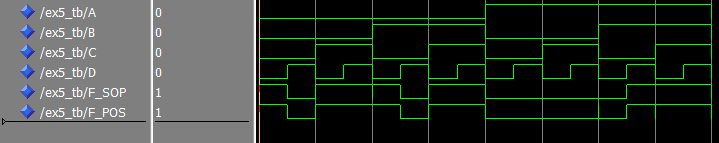
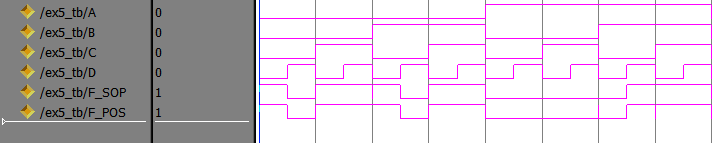
Finished lab5

diff --git a/lab5.tex b/lab5.tex
@@ -29,6 +29,7 @@
 \usepackage{lmodern}
 \usepackage{siunitx}
 \usepackage{subcaption}
+
 \usepackage{kmap}
 \usepackage[T1]{fontenc}
 
@@ -56,7 +57,7 @@
 \maketitle
 
 \section*{Abstract}
-In this laboratory exercise, an arbitrary function was implemented using a simplified Karnaugh map. A product of sums and a sums of product expression was generated. Both circuits were designed in Quartus II and then simulated in Modelsim. A forces file was initially used to control input pins, however, the test bench provided on MyCourses proved to be a more effient way to test the circuit. The cost of each circuit was evaluated. The cheap circuit was implemented a breadboard. The function was a four-input, one-output function described using min-term notation.
+In this laboratory exercise, an arbitrary function was implemented using a simplified Karnaugh map. A product of sums and a sums of product expression was generated. Both circuits were designed in Quartus II and then simulated in Modelsim. A forces file was initially used to control input pins, however, the test bench provided on MyCourses proved to be a more effient way to test the circuit. The cost of each circuit was evaluated. The cheap circuit was implemented a breadboard. The function was a four-input, one-output function described using min-term notation. The exercise was successful when implementing the circuit on a breadboard as well in the Modelsim simulation.
 
 \section*{Design Methodology}
 
@@ -124,7 +125,7 @@ F_{SOP} = \widebar{A}\widebar{D} + ABD + \widebar{A}C + BC
 F_{POS} = (\widebar{A} + B)(\widebar{A} + C + D)(A + C + \widebar{D})
 \end{equation}
 
-The POS and SOP expressions above can be implemented using a circuit with AOI logic.
+The SOP (Eq. \ref{eq:sop}) and POS (Eq. \ref{eq:pos}) expressions above can be implemented using a circuit with AOI logic.
 
 \begin{figure}[htbp]
 	\centering
@@ -165,7 +166,7 @@ The POS and SOP expressions above can be implemented using a circuit with AOI lo
 	
 	\draw (SOP_TOP) ++(3,-0.5)     node (sop_c1) [or port, scale=0.7]{};
 	\draw (SOP_TOP) ++(4.75,-2.25) node (sop_c2) [or port, scale=0.7]{};
-	\draw (SOP_TOP) ++(1.5,-3.75)  node (sop_c3) [or port, scale=0.7]{};
+	\draw (SOP_TOP) ++(2,-3.75)  node (sop_c3) [or port, scale=0.7]{};
 	
 	\draw (!A) |- node[circ,midway]{} (sop_t1.in 1)
 		  (!D) |- node[circ,midway]{} (sop_t1.in 2)
@@ -193,23 +194,23 @@ The POS and SOP expressions above can be implemented using a circuit with AOI lo
 		  (sop_t4.out) -- ++(0.25,0) |- (sop_c3.in 2);
 	
 	\draw (sop_c1.out) -- ++(0.25,0) |- (sop_c2.in 1)
-		  (sop_c3.out) -- ++(1.75,0)  |- (sop_c2.in 2);
+		  (sop_c3.out) -- ++(1.25,0)  |- (sop_c2.in 2);
 	
 	\draw (sop_c2.out) to[short, l=$F_{SOP}$, -o] ++(1.75,0);
 	
 	
 	\coordinate (POS_TOP) at (10,-1);
 	
-	\draw (POS_TOP)              node (pos_t1) [or port, scale=0.7]{};
+	\draw (POS_TOP)            node (pos_t1)   [or port, scale=0.7]{};
 	
-	\draw (POS_TOP) ++(0,-1.5)   node (pos_t2_1) [or port, scale=0.7]{};
-	\draw (POS_TOP) ++(1.5,-2)   node (pos_t2_2) [or port, scale=0.7]{};
+	\draw (POS_TOP) ++(0,-1.5) node (pos_t2_1) [or port, scale=0.7]{};
+	\draw (POS_TOP) ++(2,-2)   node (pos_t2_2) [or port, scale=0.7]{};
 	
-	\draw (POS_TOP) ++(0,-3)     node (pos_t3_1) [or port, scale=0.7]{};
-	\draw (POS_TOP) ++(1.5,-3.5) node (pos_t3_2) [or port, scale=0.7]{};
+	\draw (POS_TOP) ++(0,-3)   node (pos_t3_1) [or port, scale=0.7]{};
+	\draw (POS_TOP) ++(2,-3.5) node (pos_t3_2) [or port, scale=0.7]{};
 	
 	
-	\draw (POS_TOP) ++(3,-2.75)     node (pos_c1) [and port, scale=0.7]{};
+	\draw (POS_TOP) ++(3.5,-2.75)   node (pos_c1) [and port, scale=0.7]{};
 	\draw (POS_TOP) ++(4.5,-1.4)    node (pos_c2) [and port, scale=0.7]{};
 	
 	\draw (!A) |- node[circ,midway]{} (pos_t1.in 1)
@@ -235,32 +236,131 @@ The POS and SOP expressions above can be implemented using a circuit with AOI lo
 		  ;
 	
 	\draw (pos_t1.out) -- ++(3.35,0) |- (pos_c2.in 1)
-		  (pos_c1.out) -- ++(0.4,0)  |- (pos_c2.in 2)
+		  (pos_c1.out) -- ++(0.1,0)  |- (pos_c2.in 2)
 		  ;
 	
 	\draw (pos_c2.out) to[short, l=$F_{POS}$, -o] ++(2,0);
+	
+	\draw (anot.in) ++(-0.15,0) node[label={[font=\footnotesize]above:\texttt{1}}] {}
+		  (anot.out) node[label={[font=\footnotesize]above:\texttt{2}}] {}
+		  
+		  (dnot.in) ++(-0.15,0) node[label={[font=\footnotesize]above:\texttt{3}}] {}
+		  (dnot.out) node[label={[font=\footnotesize]above:\texttt{4}}] {}
+		  ;
+	
+	\draw (sop_t1.in 1) ++(-0.25,-0.15) node[label={[font=\footnotesize]above:\texttt{2\_1}}] {}
+		  (sop_t1.in 2) ++(-0.25,0.15) node[label={[font=\footnotesize]below:\texttt{2\_2}}] {}
+		  (sop_t1.out)  ++(0.25,0.15)  node[label={[font=\footnotesize]below:\texttt{2\_3}}] {}
+		  
+		  (sop_t2_1.in 1) ++(-0.25,-0.15) node[label={[font=\footnotesize]above:\texttt{1\_1}}] {}
+		  (sop_t2_1.in 2) ++(-0.25,0.15) node[label={[font=\footnotesize]below:\texttt{1\_2}}] {}
+		  (sop_t2_1.out)  ++(0.25,-0.15)  node[label={[font=\footnotesize]above:\texttt{1\_3}}] {}
+		  
+		  (sop_t2_2.in 1) ++(-0.25,-0.15) node[label={[font=\footnotesize]above:\texttt{1\_4}}] {}
+		  (sop_t2_2.in 2) ++(-0.25,0.15) node[label={[font=\footnotesize]below:\texttt{1\_5}}] {}
+		  (sop_t2_2.out)  ++(0.25,0.15)  node[label={[font=\footnotesize]below:\texttt{1\_6}}] {}
+		  
+		  (sop_t3.in 1) ++(-0.25,-0.15) node[label={[font=\footnotesize]above:\texttt{1\_13}}] {}
+		  (sop_t3.in 2) ++(-0.25,0.15) node[label={[font=\footnotesize]below:\texttt{1\_12}}] {}
+		  (sop_t3.out)  ++(0.25,-0.25)  node[label={[font=\footnotesize]above:\texttt{1\_11}}] {}
+		  
+		  (sop_t4.in 1) ++(-0.25,-0.15) node[label={[font=\footnotesize]above:\texttt{1\_10}}] {}
+		  (sop_t4.in 2) ++(-0.25,0.15) node[label={[font=\footnotesize]below:\texttt{1\_9}}] {}
+		  (sop_t4.out)  ++(0.25,0.15)  node[label={[font=\footnotesize]below:\texttt{1\_8}}] {}
+		  ;
+	
+	\draw (sop_c1.in 1) ++(0,-0.15) node[label={[font=\footnotesize]above:\texttt{1}}] {}
+		  (sop_c1.in 2) ++(0,0.15) node[label={[font=\footnotesize]below:\texttt{2}}] {}
+		  (sop_c1.out)  ++(0.1,-0.15)  node[label={[font=\footnotesize]above:\texttt{3}}] {}
+		  
+		  (sop_c2.in 1) ++(0,-0.15) node[label={[font=\footnotesize]above:\texttt{4}}] {}
+		  (sop_c2.in 2) ++(0,0.15) node[label={[font=\footnotesize]below:\texttt{5}}] {}
+		  (sop_c2.out)  ++(0.1,-0.15)  node[label={[font=\footnotesize]above:\texttt{6}}] {}
+		  
+		  (sop_c3.in 1) ++(0,-0.15) node[label={[font=\footnotesize]above:\texttt{13}}] {}
+		  (sop_c3.in 2) ++(0,0.15) node[label={[font=\footnotesize]below:\texttt{12}}] {}
+		  (sop_c3.out)  ++(0.1,-0.15)  node[label={[font=\footnotesize]above:\texttt{11}}] {}
+		  ;
+	
+	
+	
+	\draw (pos_t1.in 1) ++(-0.25,-0.15) node[label={[font=\footnotesize]above:\texttt{2\_1}}] {}
+		  (pos_t1.in 2) ++(-0.25,0.15) node[label={[font=\footnotesize]below:\texttt{2\_2}}] {}
+		  (pos_t1.out)  ++(0.25,0.15)  node[label={[font=\footnotesize]below:\texttt{2\_3}}] {}
+		  
+		  (pos_t2_1.in 1) ++(-0.25,-0.15) node[label={[font=\footnotesize]above:\texttt{1\_1}}] {}
+		  (pos_t2_1.in 2) ++(-0.25,0.15) node[label={[font=\footnotesize]below:\texttt{1\_2}}] {}
+		  (pos_t2_1.out)  ++(0.25,-0.15)  node[label={[font=\footnotesize]above:\texttt{1\_3}}] {}
+		  
+		  (pos_t2_2.in 1) ++(-0.25,-0.15) node[label={[font=\footnotesize]above:\texttt{1\_4}}] {}
+		  (pos_t2_2.in 2) ++(-0.25,0.15) node[label={[font=\footnotesize]below:\texttt{1\_5}}] {}
+		  (pos_t2_2.out)  ++(0.25,-0.15)  node[label={[font=\footnotesize]above:\texttt{1\_6}}] {}
+		  
+		  (pos_t3_1.in 1) ++(-0.25,-0.15) node[label={[font=\footnotesize]above:\texttt{1\_13}}] {}
+		  (pos_t3_1.in 2) ++(-0.25,0.15) node[label={[font=\footnotesize]below:\texttt{1\_12}}] {}
+		  (pos_t3_1.out)  ++(0.25,-0.25)  node[label={[font=\footnotesize]above:\texttt{1\_11}}] {}
+		  
+		  (pos_t3_2.in 1) ++(-0.25,-0.25) node[label={[font=\footnotesize]above:\texttt{1\_10}}] {}
+		  (pos_t3_2.in 2) ++(-0.25,0.15) node[label={[font=\footnotesize]below:\texttt{1\_9}}] {}
+		  (pos_t3_2.out)  ++(0.25,0.15)  node[label={[font=\footnotesize]below:\texttt{1\_8}}] {}
+		  ;
+	
+	\draw (pos_c1.in 1) ++(-0.1,-0.15) node[label={[font=\footnotesize]above:\texttt{1}}] {}
+		  (pos_c1.in 2) ++(-0.1,0.15) node[label={[font=\footnotesize]below:\texttt{2}}] {}
+		  (pos_c1.out)  ++(-0.1,0)  node[label={[font=\footnotesize]right:\texttt{3}}] {}
+		  
+		  (pos_c2.in 1) ++(0,-0.15) node[label={[font=\footnotesize]above:\texttt{4}}] {}
+		  (pos_c2.in 2) node[label={[font=\footnotesize]left:\texttt{5}}] {}
+		  (pos_c2.out)  ++(0.1,-0.15)  node[label={[font=\footnotesize]above:\texttt{6}}] {}
+		  ;
+	
 	
 	\end{circuitikz}
 	\caption{Circuit diagram for $F_{SOP}$ and $F_{POS}$}
 	\label{fig:cir}
 \end{figure}
 
-Figure \ref{fig:cir} is a circuit diagram for both the POS and SOP implementations of $F$. It displays the pin numbers to the chips in the format \texttt{CHIP\char`_PIN}. Both input and output pins are shown on either side of every node.
+Figure \ref{fig:cir} is a circuit diagram for both the POS and SOP implementations of $F$. It displays the pin numbers to the chips in the format \texttt{CHIP\char`_PIN}. Both input and output pins are shown on either side of every node. When only one chip of that type is used in the function, a chip number is not included. For example, only one \texttt{AND} chip is needed and therefore the labels just display the pin number on the single chip.
 
 \section*{Results and Analysis}
 
-THe hardware was contructed and tested using 3 chips. An AND, OR, and INVERT chip was needed to implement the circuit shown in Figure \ref{fig:cir}. The DC power supply was configured to produce a $5\,\si\volt$ source and a maximum of $0.1\,\si\ampere$. The first three switch were configured as inputs and four of the LED were wired as outputs. All of the input combinations of the input switches matched the output combinations on the LEDs as in Table \ref{tab:TRUTH}.
+The Quartus II design was tested using the VHDL test bench as signal inputs. A wave form for the POS and SOP functions was generated.
+
+\begin{figure}[htbp]
+	\centering
+	\includegraphics[width=\textwidth]{lab5_procedure}
+	\caption{Circuit simulation using the test bench}
+	\label{fig:simulation}
+\end{figure}
+
+Figure \ref{fig:simulation} shows all of the input combinations of the 4-input function function. The two outputs generate the same waveform because they are different implementations of the same function.
 
 \section*{Conclusion}
 
-This exercise implemented a 3-input, 4-output function, F, first using boolean algebra and then translated to a circuit. The circuit was tested in ModelSim to verify the correct combination of gates were used. Finally the circuit was implemented on a breadboard and was tested using the input switches and the LEDs as output. The purpose of this exercise was to design a circuit completely from the definition to the hardware implementation.
+The purpose of this exercise was to analyze the efficiency of min-term (SOP) and max-term (POS) function implementation. An arbitrary function was provided. Two Karnaugh maps were generated and used to extract the SOP and POS expressions. These expressions were then implemented in a circuit in Quartus II and simulated in Modelsim. The cheaper circuit was then constructed on a breadboard. This experiment was successul in obtaining the correct output set as provided by the function from the breadboard and the simulation.
+
+\pagebreak
 
 \section*{Questions}
 
 \begin{enumerate}
-  \item A total of 6 two-input gates were used in this circuit design. This was made possible by using DeMorgan's Law to further simplify $X$ and therefore use one of the gate outputs of $W$. A total of four 2-input AND gates and two 2-input OR gates were used.
+  \item Design a two level NAND-NAND implementation of $F_{SOP}$.
+  
+\begin{figure}[htbp]
+	\centering
+	\includegraphics[height=7.5cm]{nand-nand}
+	\caption{Two level NAND-NAND implementation of $F_{SOP}$}
+	\label{fig:nand-nand}
+\end{figure}
 
-  \item A total of 3 ICs were used. Every 2-input, 1 output IC holds four gates. Because the OR and AND gate counts did not exceed 4, one chip could be used for each. In the case of the inverter, a 1-input, 1-output gate, a total of 6 inverter gates are inside the chip. Only one inverter was needed in order to implement the circuit. Therefore, 1x 74LS08 2-input AND gate, 1x 74LS32 2-input OR gate, and 1x 74LS04 1-input inverter chips were used.
+  \item Design a two level NOR-NOR implementation of $F_{POS}$.
+  
+\begin{figure}[htbp]
+	\centering
+	\includegraphics[height=7.5cm]{nor-nor}
+	\caption{Two level NOR-NOR implementation of $F_{POS}$}
+	\label{fig:nor-nor}
+\end{figure}
 \end{enumerate}
 
 \end{document}
